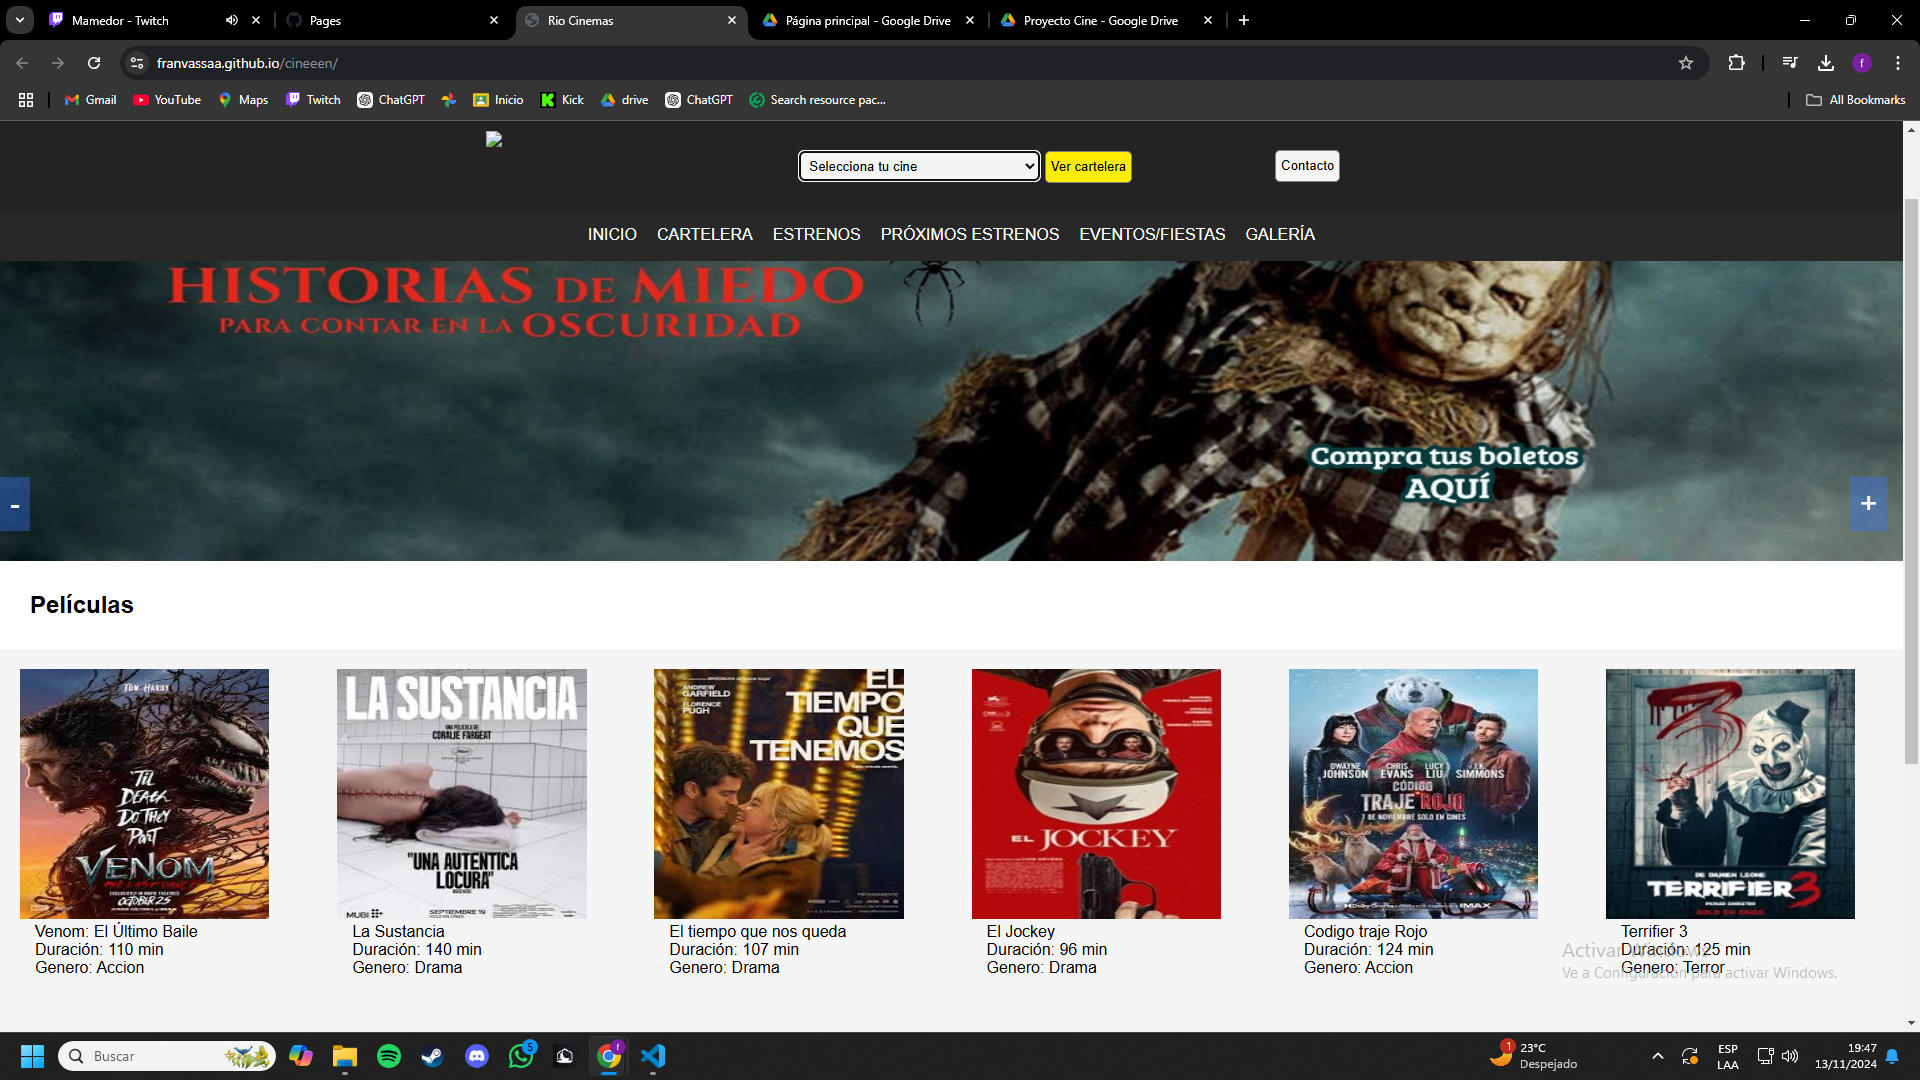
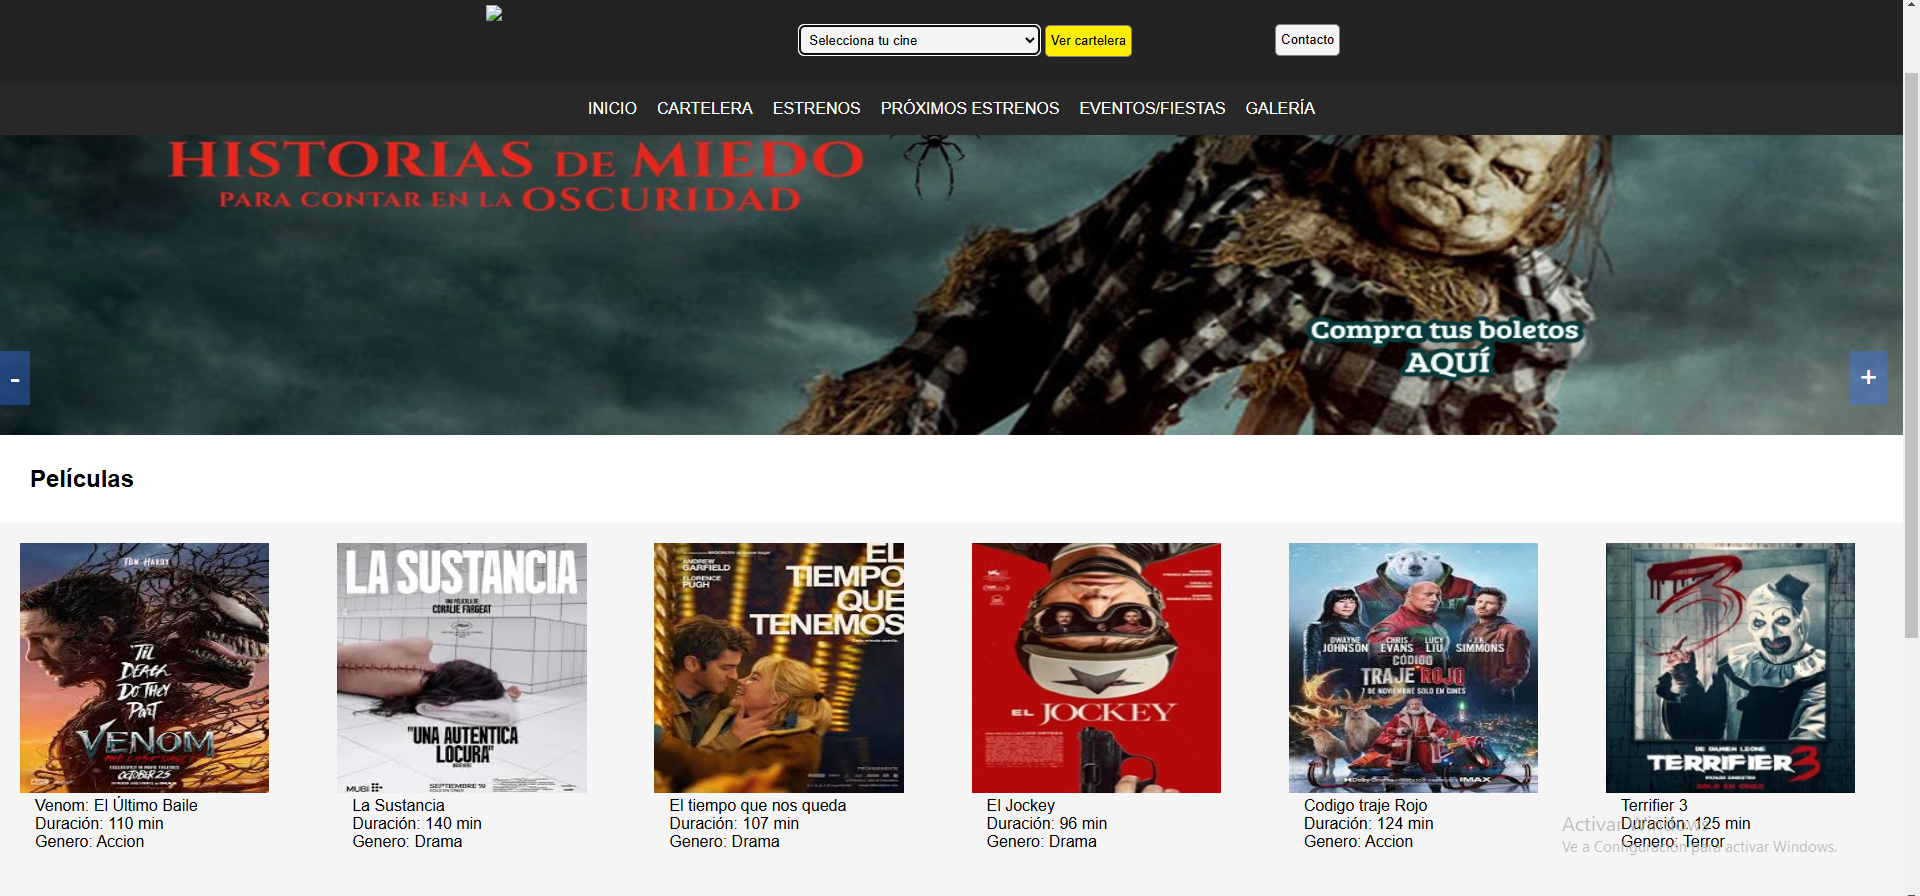
agregue imagen de qr conquista, puse texto en quienes somos. corregi tamaño de imagenes del index

diff --git a/Pages/Quienes_somos.php b/Pages/Quienes_somos.php
@@ -43,13 +43,23 @@
             <div class="equipo_card">
                 <img src="../Img/uss.webp" alt="">
                 <h3>CARO</h3>
-                <p>Lorem ipsum dolor sit amet consectetur adipisicing elit. Reprehenderit, repudiandae temporibus iusto velit ipsa praesentium.</p>
+                <ul>
+                    <li>Desarrollo de diagramas</li>
+                    <li>Documentación del proyecto</li>
+                    <li>Mockups y entrevistas con el cliente</li>
+                    <li>Testing</li>
+                </ul>
             </div>
             
             <div class="equipo_card">
                 <img src="../Img/uss.webp" alt="">
                 <h3>SOFI</h3>
-                <p>Lorem ipsum dolor sit amet consectetur adipisicing elit. Reprehenderit, repudiandae temporibus iusto velit ipsa praesentium.</p>
+                <ul>
+                    <li>Desarrollo de diagramas</li>
+                    <li>Team líder del proyecto</li>
+                    <li>Documentación del desarrollo</li>
+                    <li>Entrevistas y testing del producto final</li>
+                </ul>
             </div>
             
             <div class="equipo_card">
@@ -75,13 +85,21 @@
             <div class="equipo_card">
                 <img src="../Img/uss.webp" alt="">
                 <h3>TOBI</h3>
-                <p>Lorem ipsum dolor sit amet consectetur adipisicing elit. Reprehenderit, repudiandae temporibus iusto velit ipsa praesentium.</p>
+                <ul>
+                    <li>Diseño del proyecto</li>
+                    <li>Analista</li>
+                    <li>Gestión del presupuesto del proyecto</li>
+                </ul>
             </div>
 
             <div class="equipo_card">
                 <img src="../Img/uss.webp" alt="">
                 <h3>FRAN</h3>
-                <p>Lorem ipsum dolor sit amet consectetur adipisicing elit. Reprehenderit, repudiandae temporibus iusto velit ipsa praesentium.</p>
+                <ul>
+                    <li>Desarrollo de interfaces</li>
+                    <li>Programación general</li>
+                    <li>Implementación técnica del sistema</li>
+                </ul>
             </div>
         </div>
     </section>

diff --git a/Pages/Servicios.php b/Pages/Servicios.php
@@ -40,7 +40,7 @@
         
         <div class="cards_con">
             <div class="card card1">
-                <img src="../Img/imagen momentanea.png" alt="">
+                <img src="../Img/QRCONQUISTA.png" alt="">
                 <h3>Qr Conquista</h3>
                 <p>QR Conquista fue desarrollado por nuestra empresa a pedido de la institución ET29, con el objetivo de optimizar la organización y el acceso a la información de aulas y laboratorios. Se trata de una aplicación móvil pensada para el ámbito escolar, que permite identificar cada espacio mediante un código QR. Al escanearlo con la cámara del celular, el usuario obtiene de manera inmediata los datos del aula division, especialidad y turno que la ocupan</p>
             </div>
